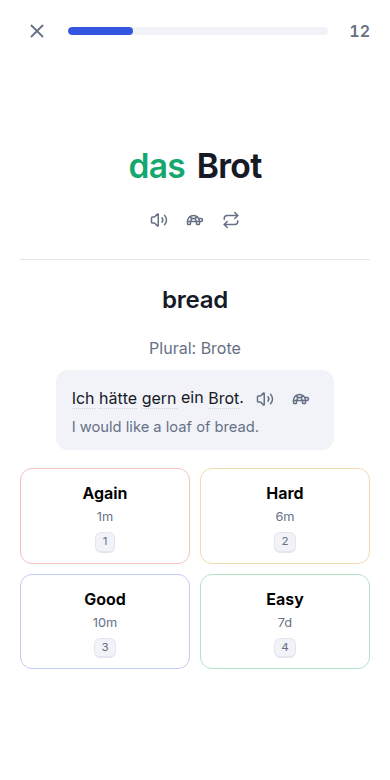
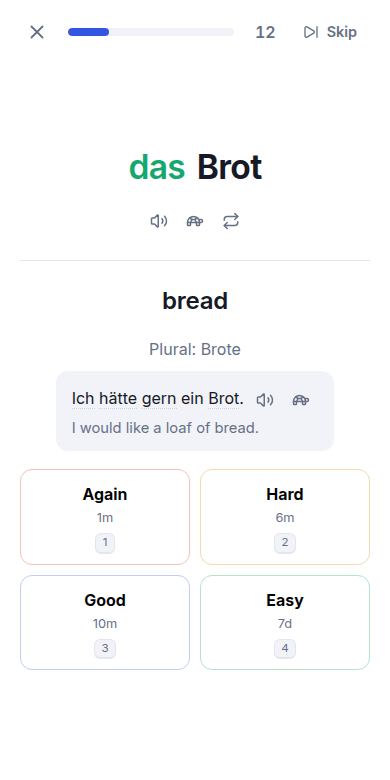
Show Skip in screenshots and document it in the README

diff --git a/README.md b/README.md
@@ -131,6 +131,8 @@ Open a lesson and press **Words**. Each new word is shown with its article, plur
 
 Rate yourself **Again / Hard / Good / Easy**; the button shows when the card will return. A word counts as *learned* once it has passed its short learning steps.
 
+Not in the mood for a card? **Skip** (top right of any study screen) sets it aside for this session only. Nothing is recorded, so it simply comes back next time.
+
 ### 4. Drill what you want
 
 Each lesson has a **Practice** row:
